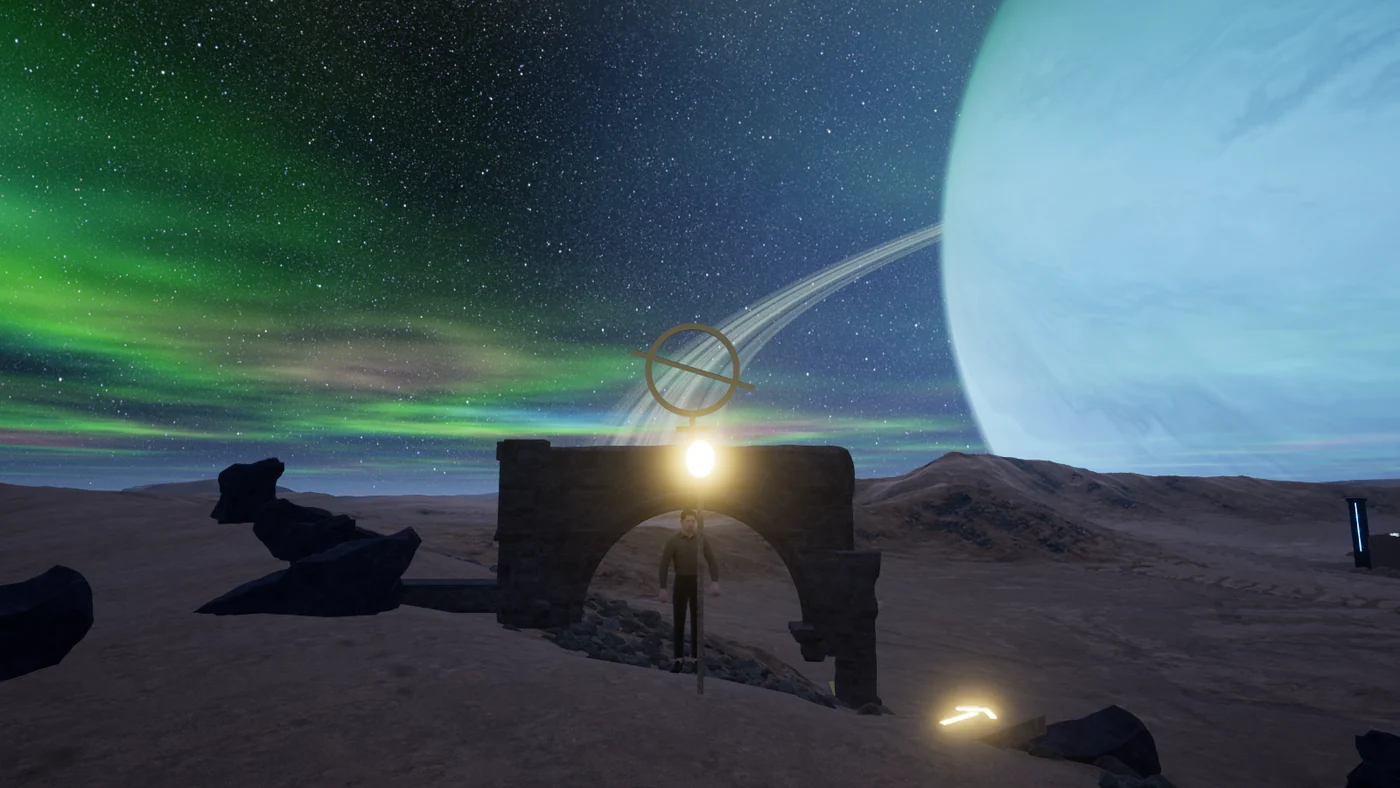
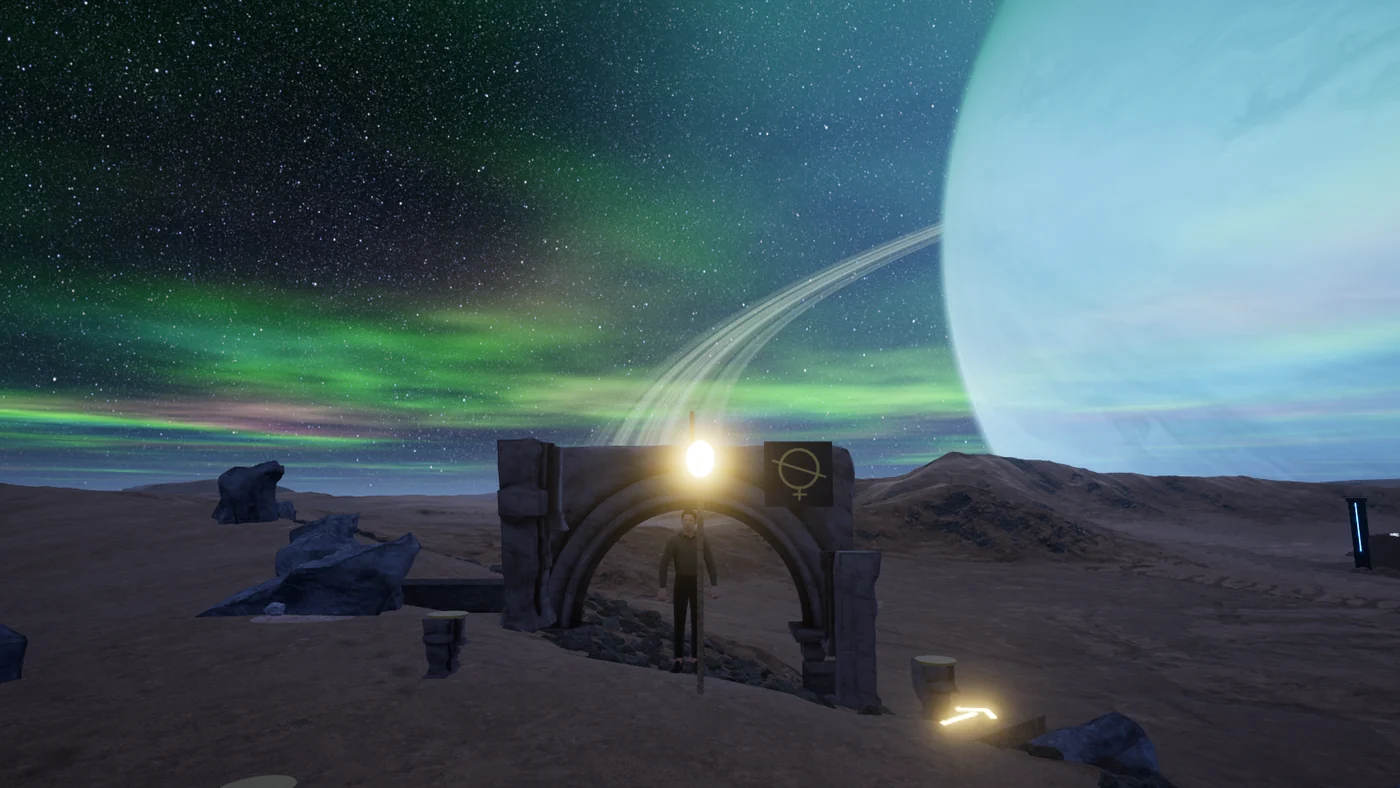
Polish Saturn opening with imported ruin assets and Fab gravel

diff --git a/scripts/prepare-native-worlds.py b/scripts/prepare-native-worlds.py
@@ -10,11 +10,15 @@ parser = argparse.ArgumentParser()
 parser.add_argument('--source-project', required=True)
 parser.add_argument('--renders-dir', default='Saved/AgentRuns/planet-parity-20261015/native-mobile-final-worlds')
 parser.add_argument('--build-version', type=int, default=20)
+parser.add_argument('--worlds', nargs='+', choices=['saturn','venus','jupiter','mercury','mars','moon','sun','earth'],
+                    help='Only refresh these worlds; keep other published versions intact')
 args = parser.parse_args()
 root = Path(__file__).resolve().parents[1]
 renders = Path(args.source_project) / args.renders_dir
 rows = [('saturn','Level_1_QuestLink'),('venus','Level_2_Venus'),('jupiter','Level_3_Jupiter'),
         ('mercury','Level_4_Mercury'),('mars','Level_5_Mars'),('moon','Level_6_Moon'),('sun','Level_7_Sun'),('earth','Earth')]
+if args.worlds:
+    rows = [(key, name) for key, name in rows if key in args.worlds]
 for key, name in rows:
     source = renders / (name + '-game.png')
     report = (renders / (name + '-review.txt')).read_text(encoding='utf-8-sig')
@@ -53,6 +57,8 @@ for key, name in rows:
 worlds_path = root / 'content/worlds.json'
 worlds = json.loads(worlds_path.read_text(encoding='utf-8'))
 for world in worlds:
+    if world['screen'] not in {key + '-game' for key, _ in rows}:
+        continue
     world['buildVersion'] = args.build_version
     world['updated'] = '2026-10-15'
     world['renderNote'] = 'Nieuw gecontroleerd beeld uit de mobiele Unreal-renderer op Windows. Dit beeld bevestigt geen headsetweergave of framerate; de actuele Quest-status staat op de testpagina.'

diff --git a/README.md b/README.md
@@ -26,11 +26,11 @@ Wereldteksten staan in `content/worlds.json`. Algemene gegevens en de Meta-uitno
 
 Een push naar `main` bouwt en controleert de website en publiceert `dist/` via GitHub Actions naar Pages. `dist/` zelf wordt niet gecommit. GitHub Pages moet als bron **GitHub Actions** gebruiken. Er zijn geen providerkeys of custom secrets nodig in de workflow.
 
-De huidige teksten verwijzen naar 15 oktober 2026. Ontwikkelbuild 22 is voor Android voorbereid met reisvoortgang, volgende stappen per wereld, HDR-compensatie voor het menu en metalen sokkelinleg. Achttien native tests en de volledige menu-rondreis op Windows slagen; de save blijft ongewijzigd. USB-build 21 blijft de afzonderlijke stereokandidaat. Meta-ALPHA bevat build 20, waarin de tester een storing in het hele rechterbeeld meldt. Een Quest-systeemdialoog blokkeerde de automatische beeldcontrole van build 21. Stereo, comfort en framerate zijn nog niet goedgekeurd.
+De huidige teksten verwijzen naar 15 oktober 2026. Ontwikkelbuild 23 bouwt voort op de reisbegeleiding en sokkelafwerking van build 22, met verweerde ruïnes, rotsvariatie en een aanwezig Fab-grindmateriaal rond de Kluizenaar. Achttien native tests en de controle van de bestaande Saturnusroute slagen. De nieuwe Saturnus-preview is afkomstig uit de mobiele Unreal-renderer op Windows; de andere wereldbeelden behouden versie 22. USB-build 21 blijft de afzonderlijke stereokandidaat. Meta-ALPHA bevat build 20, waarin de tester een storing in het hele rechterbeeld meldt. Een Quest-systeemdialoog blokkeerde de automatische beeldcontrole van build 21. Stereo, comfort en framerate zijn nog niet goedgekeurd.
 
 Publiceer na een betekenisvolle, gecontroleerde mijlpaal en werk de wereldpagina’s en teststatus in dezelfde wijziging bij. Een wekelijkse controle op vrijdag om 17:00 kijkt of er nieuwe resultaten zijn; zonder nieuws is er geen nieuw artikel. Houd historische artikelen herkenbaar als de stand bij die mijlpaal.
 
-De beeldimport ondersteunt `--renders-dir` voor een nieuwe reeks gecontroleerde spelrenders. Alleen het ongewijzigde Aarde-beeld mag terugvallen op de vorige reeks. Conceptart en Windows-spelbeelden houden afzonderlijke labels.
+De beeldimport ondersteunt `--renders-dir`, `--build-version` en optioneel `--worlds saturn` voor een gerichte update. Alleen geselecteerde werelden krijgen een nieuwe versie; andere beelden en wereldteksten blijven intact. Elke geselecteerde wereld vereist een render en een geslaagd controlerapport. Eerder gepubliceerde artikelbeelden worden vóór vervanging bewaard. Conceptart en Windows-spelbeelden houden afzonderlijke labels.
 
 ## Beelden en claims
 
